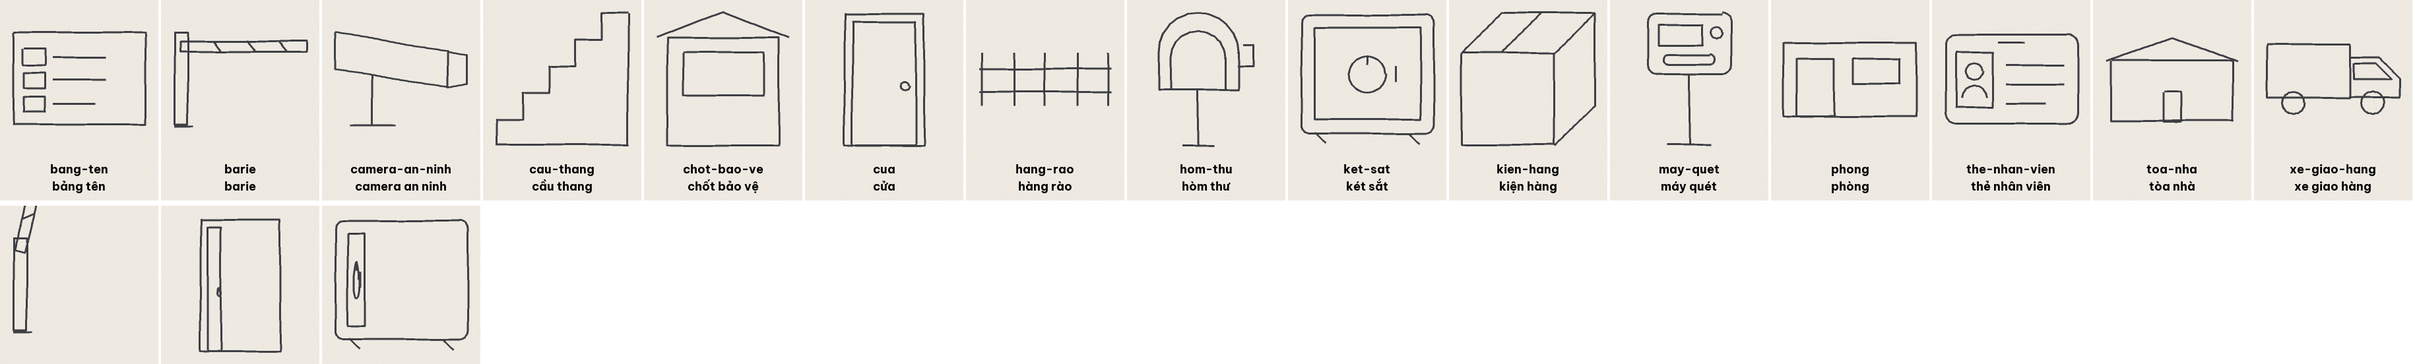
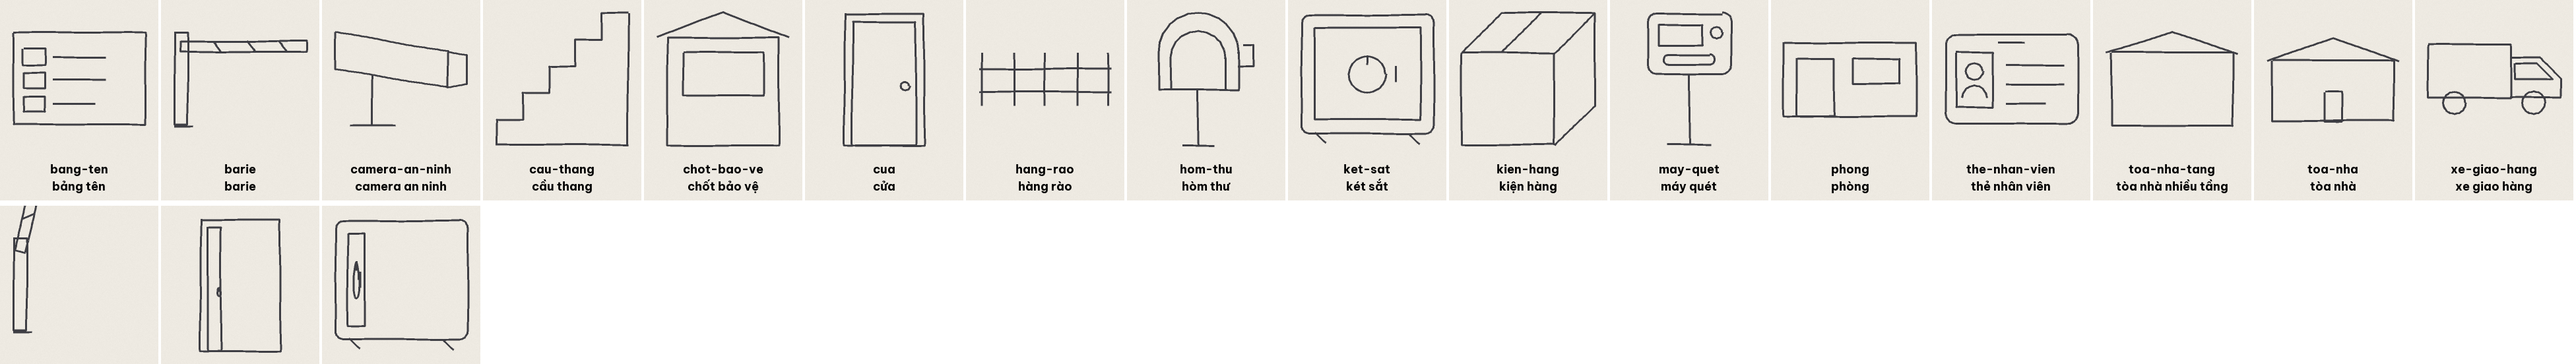
fix(motion): reviewer notes on the LXD acceptance video
A key icon that reads as a key, the attacker may come in when the voice brings him in,
paths take their colour (a red trail of the attacker's walk), a floored building with no
door (toa-nha-tang), the LXD example retimed to its words.

diff --git a/scripts/props.py b/scripts/props.py
@@ -55,6 +55,8 @@ PROPS = {
     "cua": ("cửa", [rect(0, 0, 60, 100), rect(6, 6, 54, 100), circle(46, 55, 3, 12)],
             {"strokes": [1, 2], "pivot": [6, 50], "squash": 0.2}),
     "toa-nha": ("tòa nhà", [line(0, 18, 50, 0, 100, 18), rect(4, 18, 96, 64), rect(44, 42, 56, 64)], None),
+    # no door: room for floors (boxes) inside, e.g. "máy ảo" over "máy chủ host" (reviewer 03/11: the door cut a label)
+    "toa-nha-tang": ("tòa nhà nhiều tầng", [line(0, 16, 50, 0, 100, 16), rect(4, 16, 96, 72)], None),
     "phong": ("phòng", [rect(0, 0, 100, 56), rect(10, 12, 38, 56), rect(52, 12, 88, 32)], None),
     "chot-bao-ve": ("chốt bảo vệ", [line(0, 18, 50, 0, 100, 18), rect(8, 18, 92, 100), rect(20, 30, 80, 62)], None),
     "ket-sat": ("két sắt", [
@@ -103,12 +105,13 @@ def opened_row(docs: dict[str, dict]) -> Image.Image:
 def main() -> int:
     docs = {slug: doc(slug) for slug in PROPS}
     bad = [p for slug, d in docs.items() for p in shapes.problems(d, slug)]
-    there = [slug for slug in docs if (shapes.LIBRARY / f"{slug}.json").exists()]
-    if bad or there:
-        print("\n".join(bad + [f"{s}.json đã có trong thư viện: không ghi đè" for s in there]))
+    changed = [s for s, d in docs.items() if (f := shapes.LIBRARY / f"{s}.json").exists() and json.loads(f.read_text()) != d]
+    if bad or changed:  # the library only grows: a prop drawn differently gets a new name
+        print("\n".join(bad + [f"{s}.json đã có trong thư viện với nét khác: đặt tên mới, không sửa" for s in changed]))
         return 1
     for slug, d in docs.items():
-        (shapes.LIBRARY / f"{slug}.json").write_text(json.dumps(d, ensure_ascii=False) + "\n", encoding="utf-8")
+        if not (shapes.LIBRARY / f"{slug}.json").exists():
+            (shapes.LIBRARY / f"{slug}.json").write_text(json.dumps(d, ensure_ascii=False) + "\n", encoding="utf-8")
     with tempfile.TemporaryDirectory() as tmp:
         (Path(tmp) / "shapes").mkdir()
         for slug, d in docs.items():

diff --git a/vshort/kit.py b/vshort/kit.py
@@ -306,8 +306,10 @@ def _shape(thing: dict) -> list[tuple[list, int, int]]:
 
 
 def _icon(name: str, x: float, y: float) -> list[list]:
-    if name == "key":
-        return [_rrect(x - 40, y - 40, x, y, 18), [(x - 6, y - 10), (x + 40, y + 36), (x + 26, y + 48), (x + 14, y + 36)]]
+    if name == "key":  # ring, flat shaft, two teeth: lying flat it reads as a key, not a magnifier
+        ring = [(x - 26 + 16 * math.cos(a), y + 16 * math.sin(a)) for a in np.linspace(0, 2 * math.pi, 21)]
+        ring[-1] = ring[0]
+        return [ring, [(x - 10, y), (x + 46, y)], [(x + 32, y), (x + 32, y + 14)], [(x + 44, y), (x + 44, y + 18)]]
     if name == "message":
         return [_rrect(x - 48, y - 40, x + 48, y + 22, 14), [(x - 18, y + 22), (x - 34, y + 48), (x - 4, y + 22)]]
     if name == "wallet":
@@ -464,7 +466,7 @@ def _draw_thing(img: Image.Image, d: ImageDraw.ImageDraw, thing: dict, acts: lis
     fade = (lambda c: tuple(round(v + (p - v) * dim) for v, p in zip(c, PAPER))) if dim else (lambda c: c)
     ink, red, gray, blue = map(fade, (INK, RED, GRAY, BLUE))
     color = fade(_color(thing))
-    outline = blue if kind == "wall" else red if kind == "crack" else color if kind in ("check", "cross") else ink
+    outline = blue if kind == "wall" else red if kind == "crack" else color if kind in ("check", "cross", "path") else ink
     if kind in MOVERS:
         x, y = _position(thing, acts, t, by_id)
         if kind == "dot":

diff --git a/tests/test_kit.py b/tests/test_kit.py
@@ -84,6 +84,19 @@ def test_the_message_icon_has_no_stroke_across_the_bubble():
     assert _ink(draw([msg], [Act("draw", "m", 0, 0.8)], 1.0), (330, 455, 390, 495)) == 0
 
 
+def test_a_path_takes_its_colour():  # a red trail of the attacker's walk; a path without colour stays ink
+    red = {"id": "w", "kind": "path", "points": [[100, 600], [600, 600]], "color": "red"}
+    assert _red(draw([red], [Act("draw", "w", 0, 0.8)], 1.0), (100, 590, 600, 610))
+    assert not _red(draw([red | {"color": "ink"}], [Act("draw", "w", 0, 0.8)], 1.0), (100, 590, 600, 610))
+
+
+def test_the_key_icon_lies_flat_with_teeth():
+    # reviewer 03/11: the old key (ring + diagonal shaft) read as a magnifier at phone size
+    ring, shaft, *teeth = kit._icon("key", 360, 500)
+    assert ring[0] == ring[-1] and shaft[0][1] == shaft[-1][1] and len(teeth) >= 2
+    assert all(t[0][0] == t[-1][0] for t in teeth)  # each tooth hangs straight down from the shaft
+
+
 def test_a_shape_draws_its_strokes():
     th = {"id": "m", "kind": "shape", "shape": "x", "box": [200, 300, 500, 600], "label": "bộ nhớ",
           "strokes": [[(200, 300), (500, 600)], [(200, 600), (500, 300)]]}

diff --git a/tests/test_motion.py b/tests/test_motion.py
@@ -34,9 +34,11 @@ def test_design_ok_and_actor_rules(design, tmp_path):
     assert motion.design_problems(design, WORDS, tmp_path) == []
     bad = design | {"beats": design["beats"] + [{"idea": "x", "acts": [{"do": "hide", "thing": "atk", "at": 0}]}]}
     assert any("actor" in p for p in motion.design_problems(bad, WORDS, tmp_path))
-    late = json.loads(json.dumps(design))
+    late = json.loads(json.dumps(design))  # the attacker comes in when the voice brings him in (reviewer 03/11)
     late["things"][0]["beat"] = 3
-    assert any("actor" in p for p in motion.design_problems(late, WORDS, tmp_path))
+    late["beats"][0]["acts"], late["beats"][1]["acts"] = [{"do": "red", "thing": "srv", "at": 0.6}], []
+    late["beats"][2]["acts"] = [{"do": "move", "thing": "atk", "to": [520, 680], "at": 0.3}]
+    assert not any("actor" in p for p in motion.design_problems(late, WORDS, tmp_path))
 
 
 def test_the_actor_may_enter_after_the_normal_beat(design, tmp_path):

diff --git a/vshort/motion.py b/vshort/motion.py
@@ -240,8 +240,7 @@ def _actor_problems(doc: dict, things: dict[str, dict]) -> list[str]:
     th = things.get(actor) if isinstance(actor, str) else None
     if th is None or th["kind"] not in ("dot", "figure"):
         return [f"motion.json: actor {actor!r} phải là id của một thing kind dot hoặc figure (kẻ tấn công đi suốt đoạn)"]
-    # beat 1 may tell how it should work (step 0 of the brief): the attacker may come in at beat 2
-    probs = [] if th["beat"] <= 2 else [f"motion.json: actor {actor!r} phải được vẽ ở nhịp 1 hoặc 2"]
+    probs = []  # it comes in when the voice brings it in (beat 1 may be step 0, how it should work), then stays
     for k, b in enumerate(doc["beats"], 1):
         for a in b.get("acts", []):
             if a["thing"] == actor and (a["do"] == "hide" or a.get("vanish")):

diff --git a/tests/test_props.py b/tests/test_props.py
@@ -1,7 +1,7 @@
 from vshort import shapes
 
 PROPS = ["the-nhan-vien", "may-quet", "bang-ten", "barie", "cua", "toa-nha", "phong", "chot-bao-ve", "ket-sat",
-         "hom-thu", "kien-hang", "xe-giao-hang", "camera-an-ninh", "hang-rao", "cau-thang"]
+         "hom-thu", "kien-hang", "xe-giao-hang", "camera-an-ninh", "hang-rao", "cau-thang", "toa-nha-tang"]
 
 
 def test_props_are_in_the_library_and_valid():

diff --git a/claude/agents/vs-motion.md b/claude/agents/vs-motion.md
@@ -68,8 +68,9 @@ mới** (mục dưới). Hộp có nhãn (`box`) chỉ dành cho một lớp hay
  ]}
 ```
 
-- `actor`: id của **một `dot`** hoặc **một `figure`** (kẻ tấn công) vẽ ở nhịp 1 hoặc 2 (nhịp 1 là cảnh "bình thường" thì hắn vào ở
-  nhịp 2) — đi suốt đoạn. Không `hide`, không `move` có `vanish` trên nó.
+- `actor`: id của **một `dot`** hoặc **một `figure`** (kẻ tấn công), vẽ ra ở nhịp lời bắt đầu nói tới hắn (không sớm hơn), rồi đi suốt
+  phần còn lại của đoạn. Không `hide`, không `move` có `vanish` trên nó. Hắn đi theo các `path` (vẽ đỏ) để cuối đoạn còn **vệt đường đi**
+  nối các bước.
 - **Thing**: `id` (không trùng), `kind`, `beat` (nhịp nó bắt đầu vẽ ra, đếm từ 1), tùy chọn `at` (0–1: vị trí trong nhịp, mặc định 0),
   `label`, `color`.
   - `phone`, `computer`, `server`, `box`, `wall`, `shape`: `box` `[x0, y0, x1, y1]`. Nhãn nằm trên khung, riêng `box` nhãn nằm giữa hộp.
